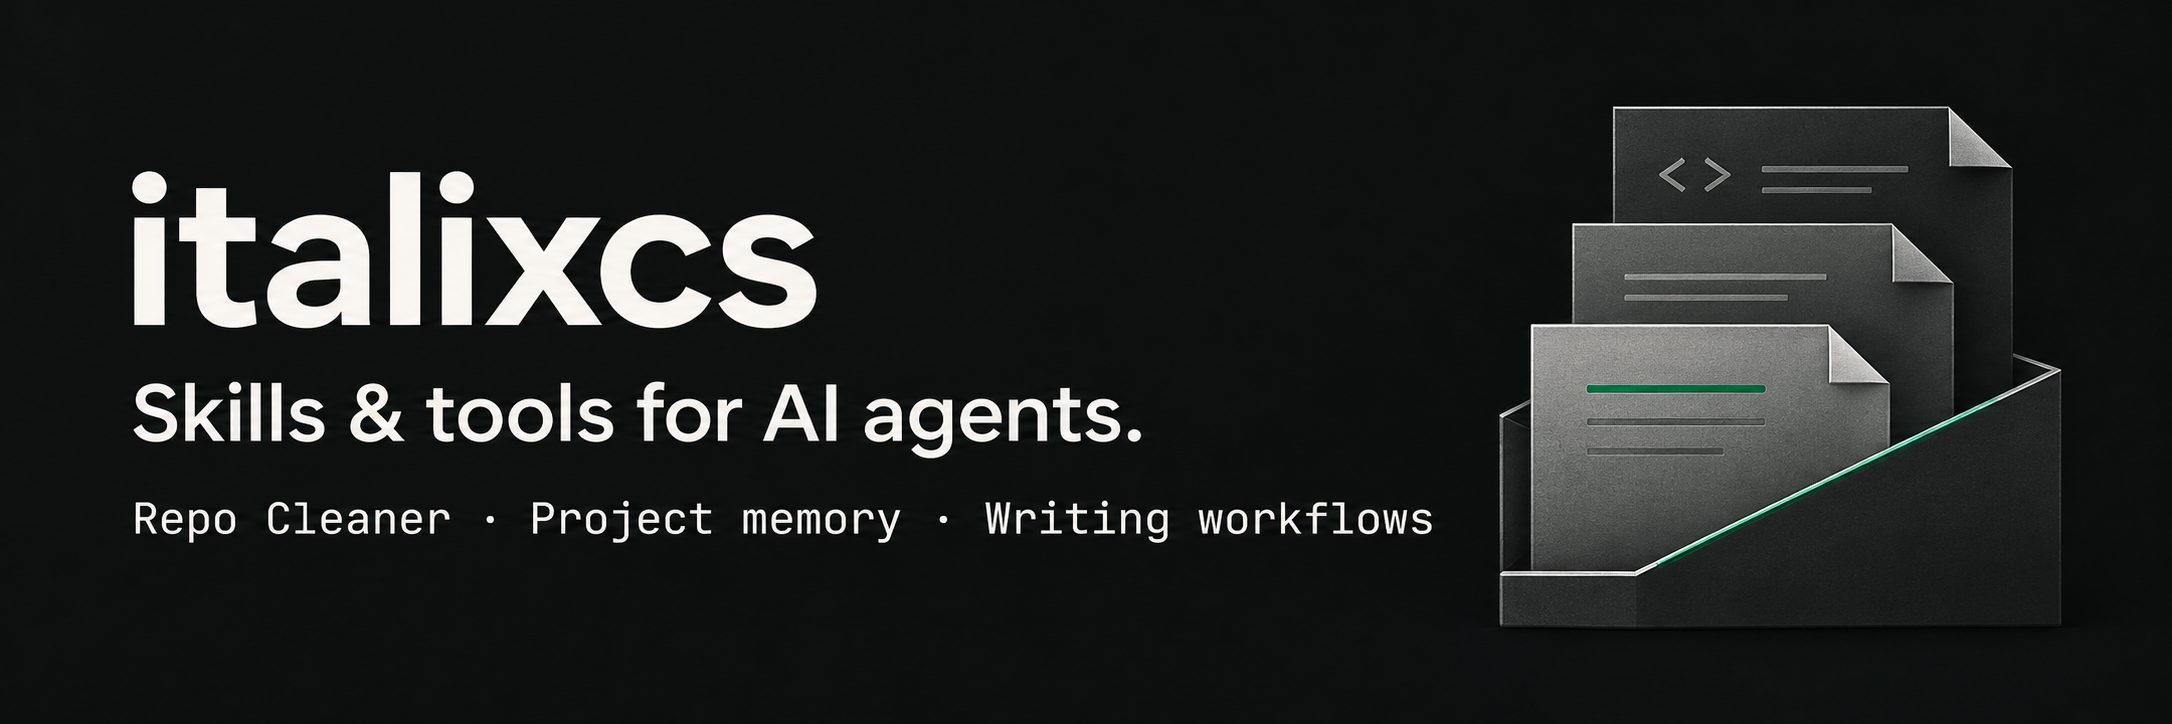
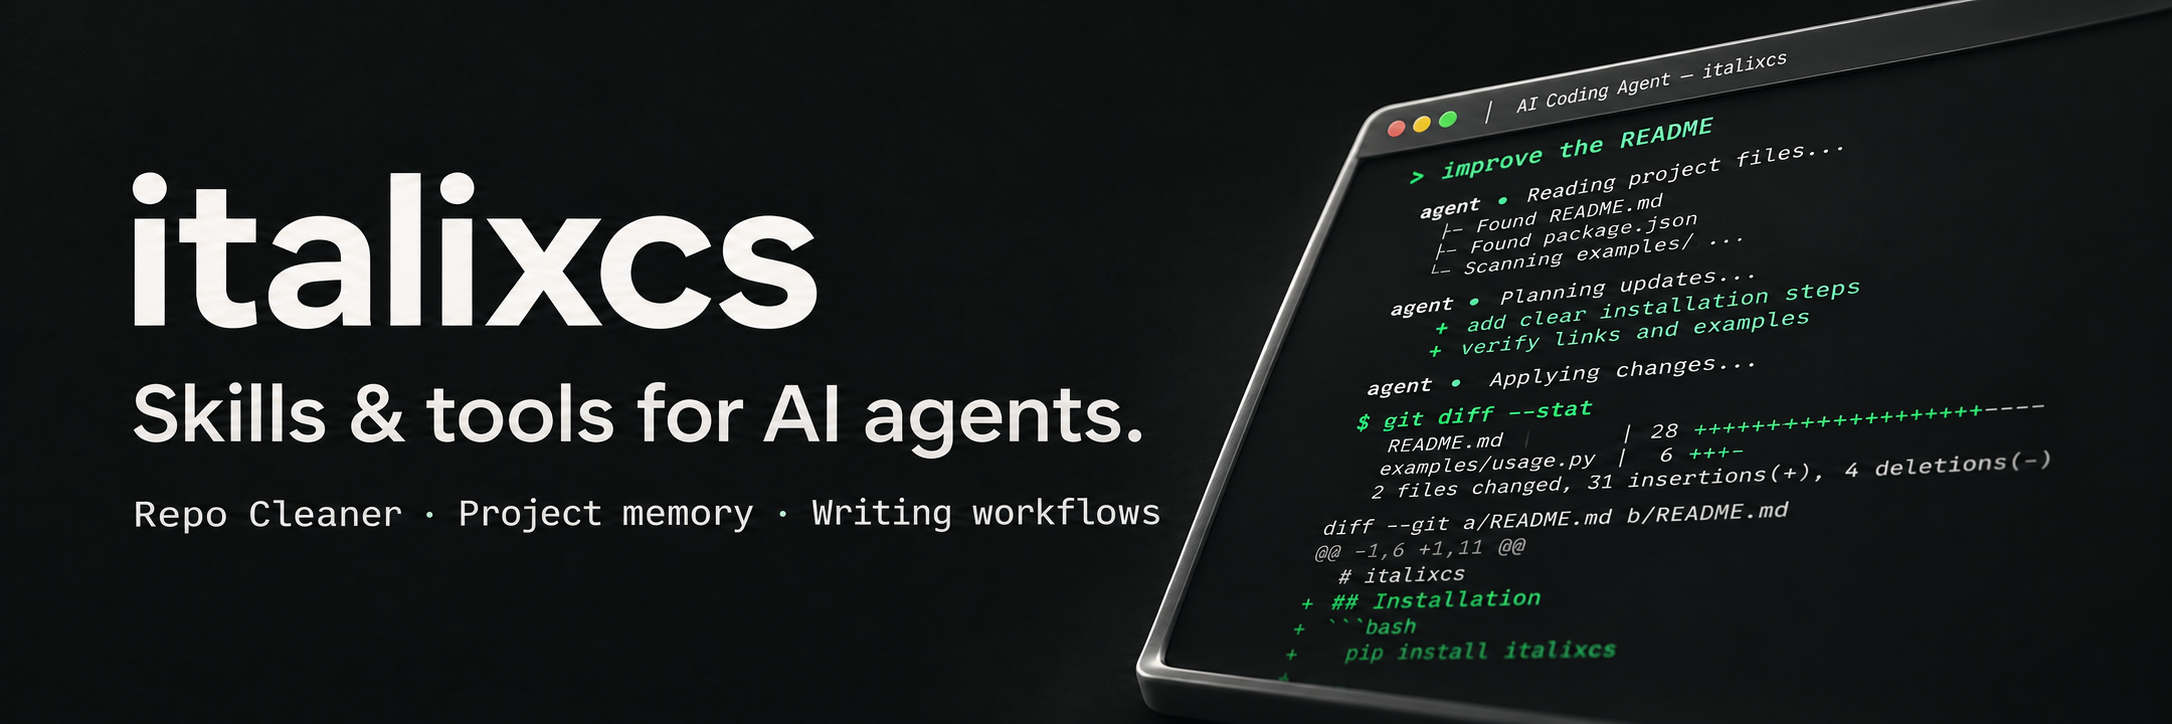
Refresh profile with angled coding terminal and Repo Cleaner v0.2.1

diff --git a/README.md b/README.md
@@ -1,5 +1,5 @@
 <p align="center">
-  <img src="assets/banner.png" alt="italixcs — skills and tools for AI agents, including Repo Cleaner, project memory, and writing workflows" width="100%" />
+  <img src="assets/banner.png" alt="italixcs — skills and tools for AI agents, with an angled terminal illustrating a coding agent session" width="100%" />
 </p>
 
 # italixcs
@@ -15,29 +15,22 @@ I’m focused on reusable agent skills, project memory, and workflows for writin
 A skill that helps AI agents improve how a GitHub repository presents its work: the README, examples, installation guides, visuals, and repository metadata.
 
 [![Format: Agent Skills](assets/badges/repo-cleaner-format.svg)](https://github.com/italixcs/Repo-cleaner/tree/main/skills/repo-cleaner)
-[![Release: v0.2.0](assets/badges/repo-cleaner-release.svg)](https://github.com/italixcs/Repo-cleaner/releases/tag/v0.2.0)
+[![Release: v0.2.1](assets/badges/repo-cleaner-release.svg)](https://github.com/italixcs/Repo-cleaner/releases/tag/v0.2.1)
 [![License: MIT](assets/badges/repo-cleaner-license.svg)](https://github.com/italixcs/Repo-cleaner/blob/main/LICENSE)
 
 It checks claims against the project’s files, flags gaps, and organizes the README around what a reader needs to understand and try the project. You can ask for an audit first or have it implement the changes.
 
+The latest update adds guidance for using GitHub callouts sparingly, so useful details are easier to spot without cluttering the README.
+
 [Repository](https://github.com/italixcs/Repo-cleaner) · [Installation](https://github.com/italixcs/Repo-cleaner/blob/main/docs/installation.md) · [Usage](https://github.com/italixcs/Repo-cleaner/blob/main/docs/usage.md) · [Latest release](https://github.com/italixcs/Repo-cleaner/releases/latest)
 
-<details>
-<summary>See Repo Cleaner in practice</summary>
+### See it in practice
 
-In an audit of a synthetic notes-app fixture, Repo Cleaner found an installation command missing from the manifest, unsupported coverage and agent-support badges, and topics that did not match the source.
+[![Seed Atlas README before and after using Repo Cleaner: the original text-led README beside the redesigned banner, badges, navigation, and installation section](assets/examples/seedatlas-comparison.png)](https://github.com/italixcs/Repo-cleaner/blob/main/docs/examples/seedatlas.md)
 
-<p>
-  <a href="https://github.com/italixcs/Repo-cleaner/blob/main/docs/examples/notes-app-audit.md">
-    <img src="assets/examples/repo-cleaner-audit.png" alt="Repo Cleaner audit output identifying a missing start script, unsupported badge claims, and unrelated topics" width="520" />
-  </a>
-</p>
+*Seed Atlas, my Minecraft Java mod. Static, AI-composited comparison from supplied screenshots; the center handle is decorative.*
 
-*Condensed audit output, rendered locally. This was an audit only; no files or settings were changed.*
-
-[Read the input and findings](https://github.com/italixcs/Repo-cleaner/blob/main/docs/examples/notes-app-audit.md) · [Validation record](https://github.com/italixcs/Repo-cleaner/blob/main/docs/validation.md)
-
-</details>
+[Before-and-after details](https://github.com/italixcs/Repo-cleaner/blob/main/docs/examples/seedatlas.md) · [Audit example](https://github.com/italixcs/Repo-cleaner/blob/main/docs/examples/notes-app-audit.md) · [Validation](https://github.com/italixcs/Repo-cleaner/blob/main/docs/validation.md)
 
 ---
 

diff --git a/assets/banner-source.md b/assets/banner-source.md
@@ -1,0 +1,11 @@
+# Profile banner
+
+Updated 11 November 2026 with the built-in image generation tool, editing the previous profile banner.
+
+The terminal is illustrative artwork, not a captured agent session or installation instructions. The real Repo Cleaner example is linked separately in the README.
+
+## Direction
+
+Keep the wide 3:1 charcoal, silver-white, and restrained green identity and existing left-side text. Replace the document-folder illustration with a large coding-agent terminal in strong perspective, tilted back and rising diagonally toward the upper-right edge. Crop the terminal at the upper and right edges; keep the profile name and tagline clear. Show monospaced prompts, agent messages, and green diff lines to suggest an active terminal coding session.
+
+Final image: `assets/banner.png`.
